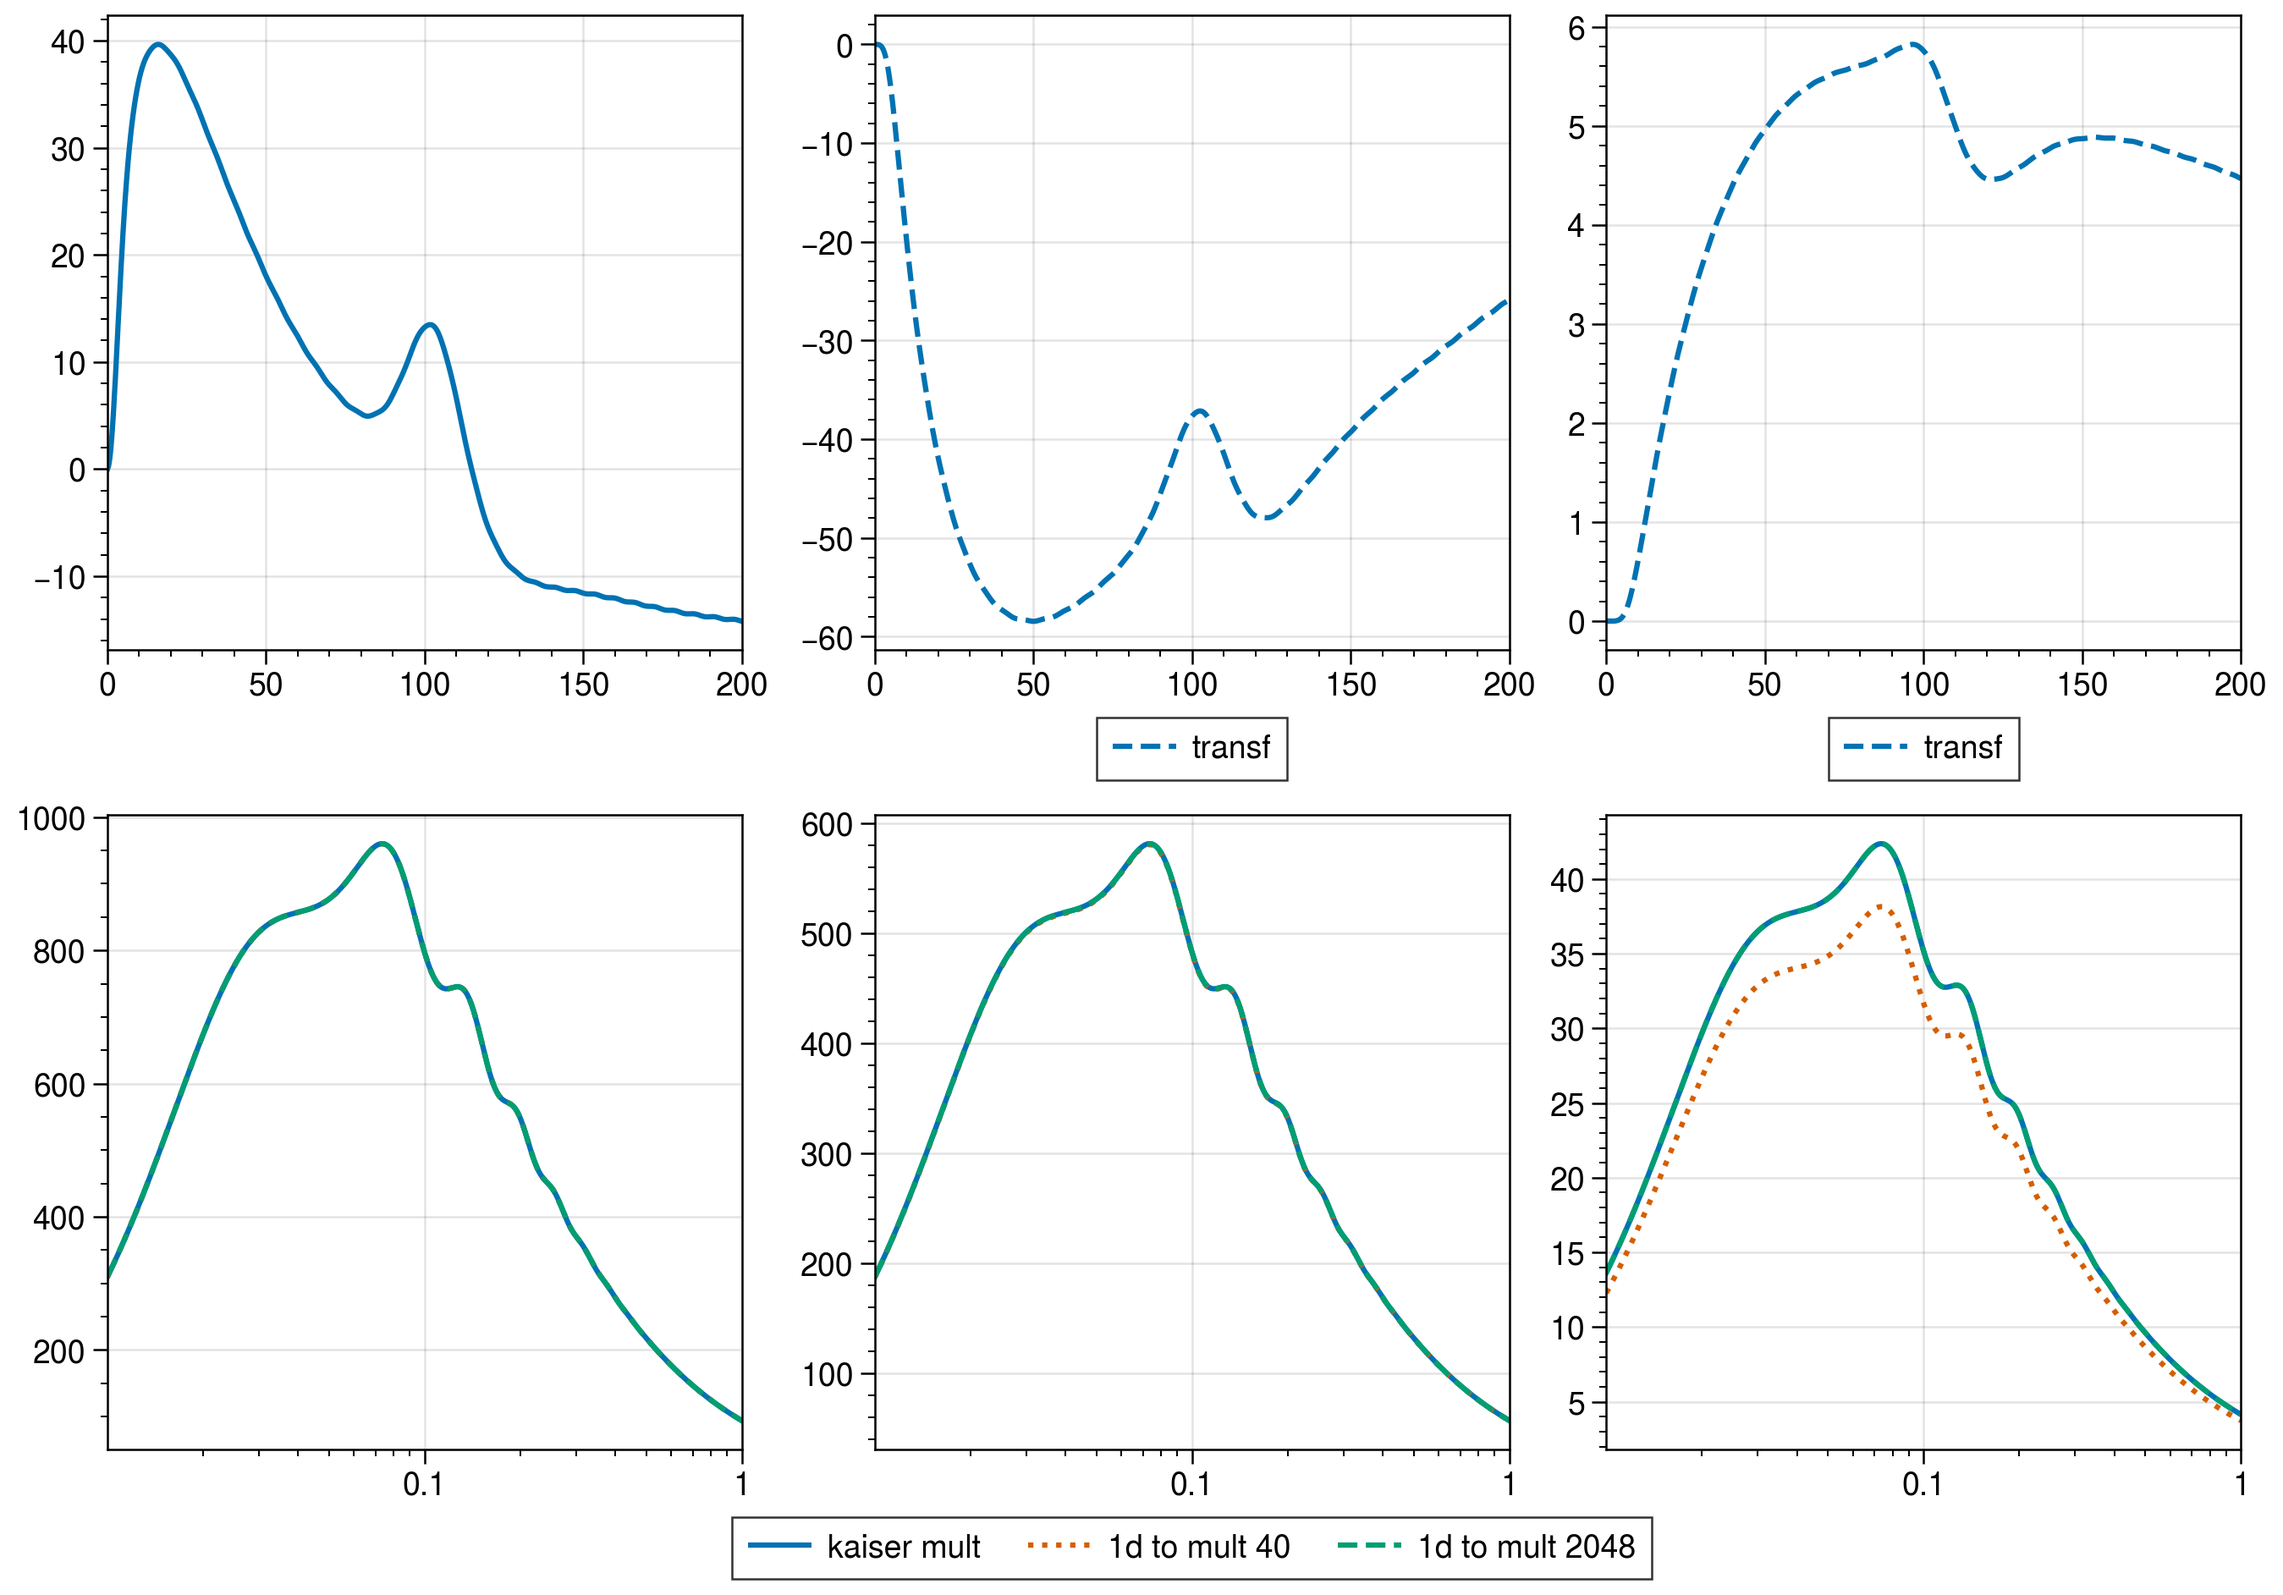
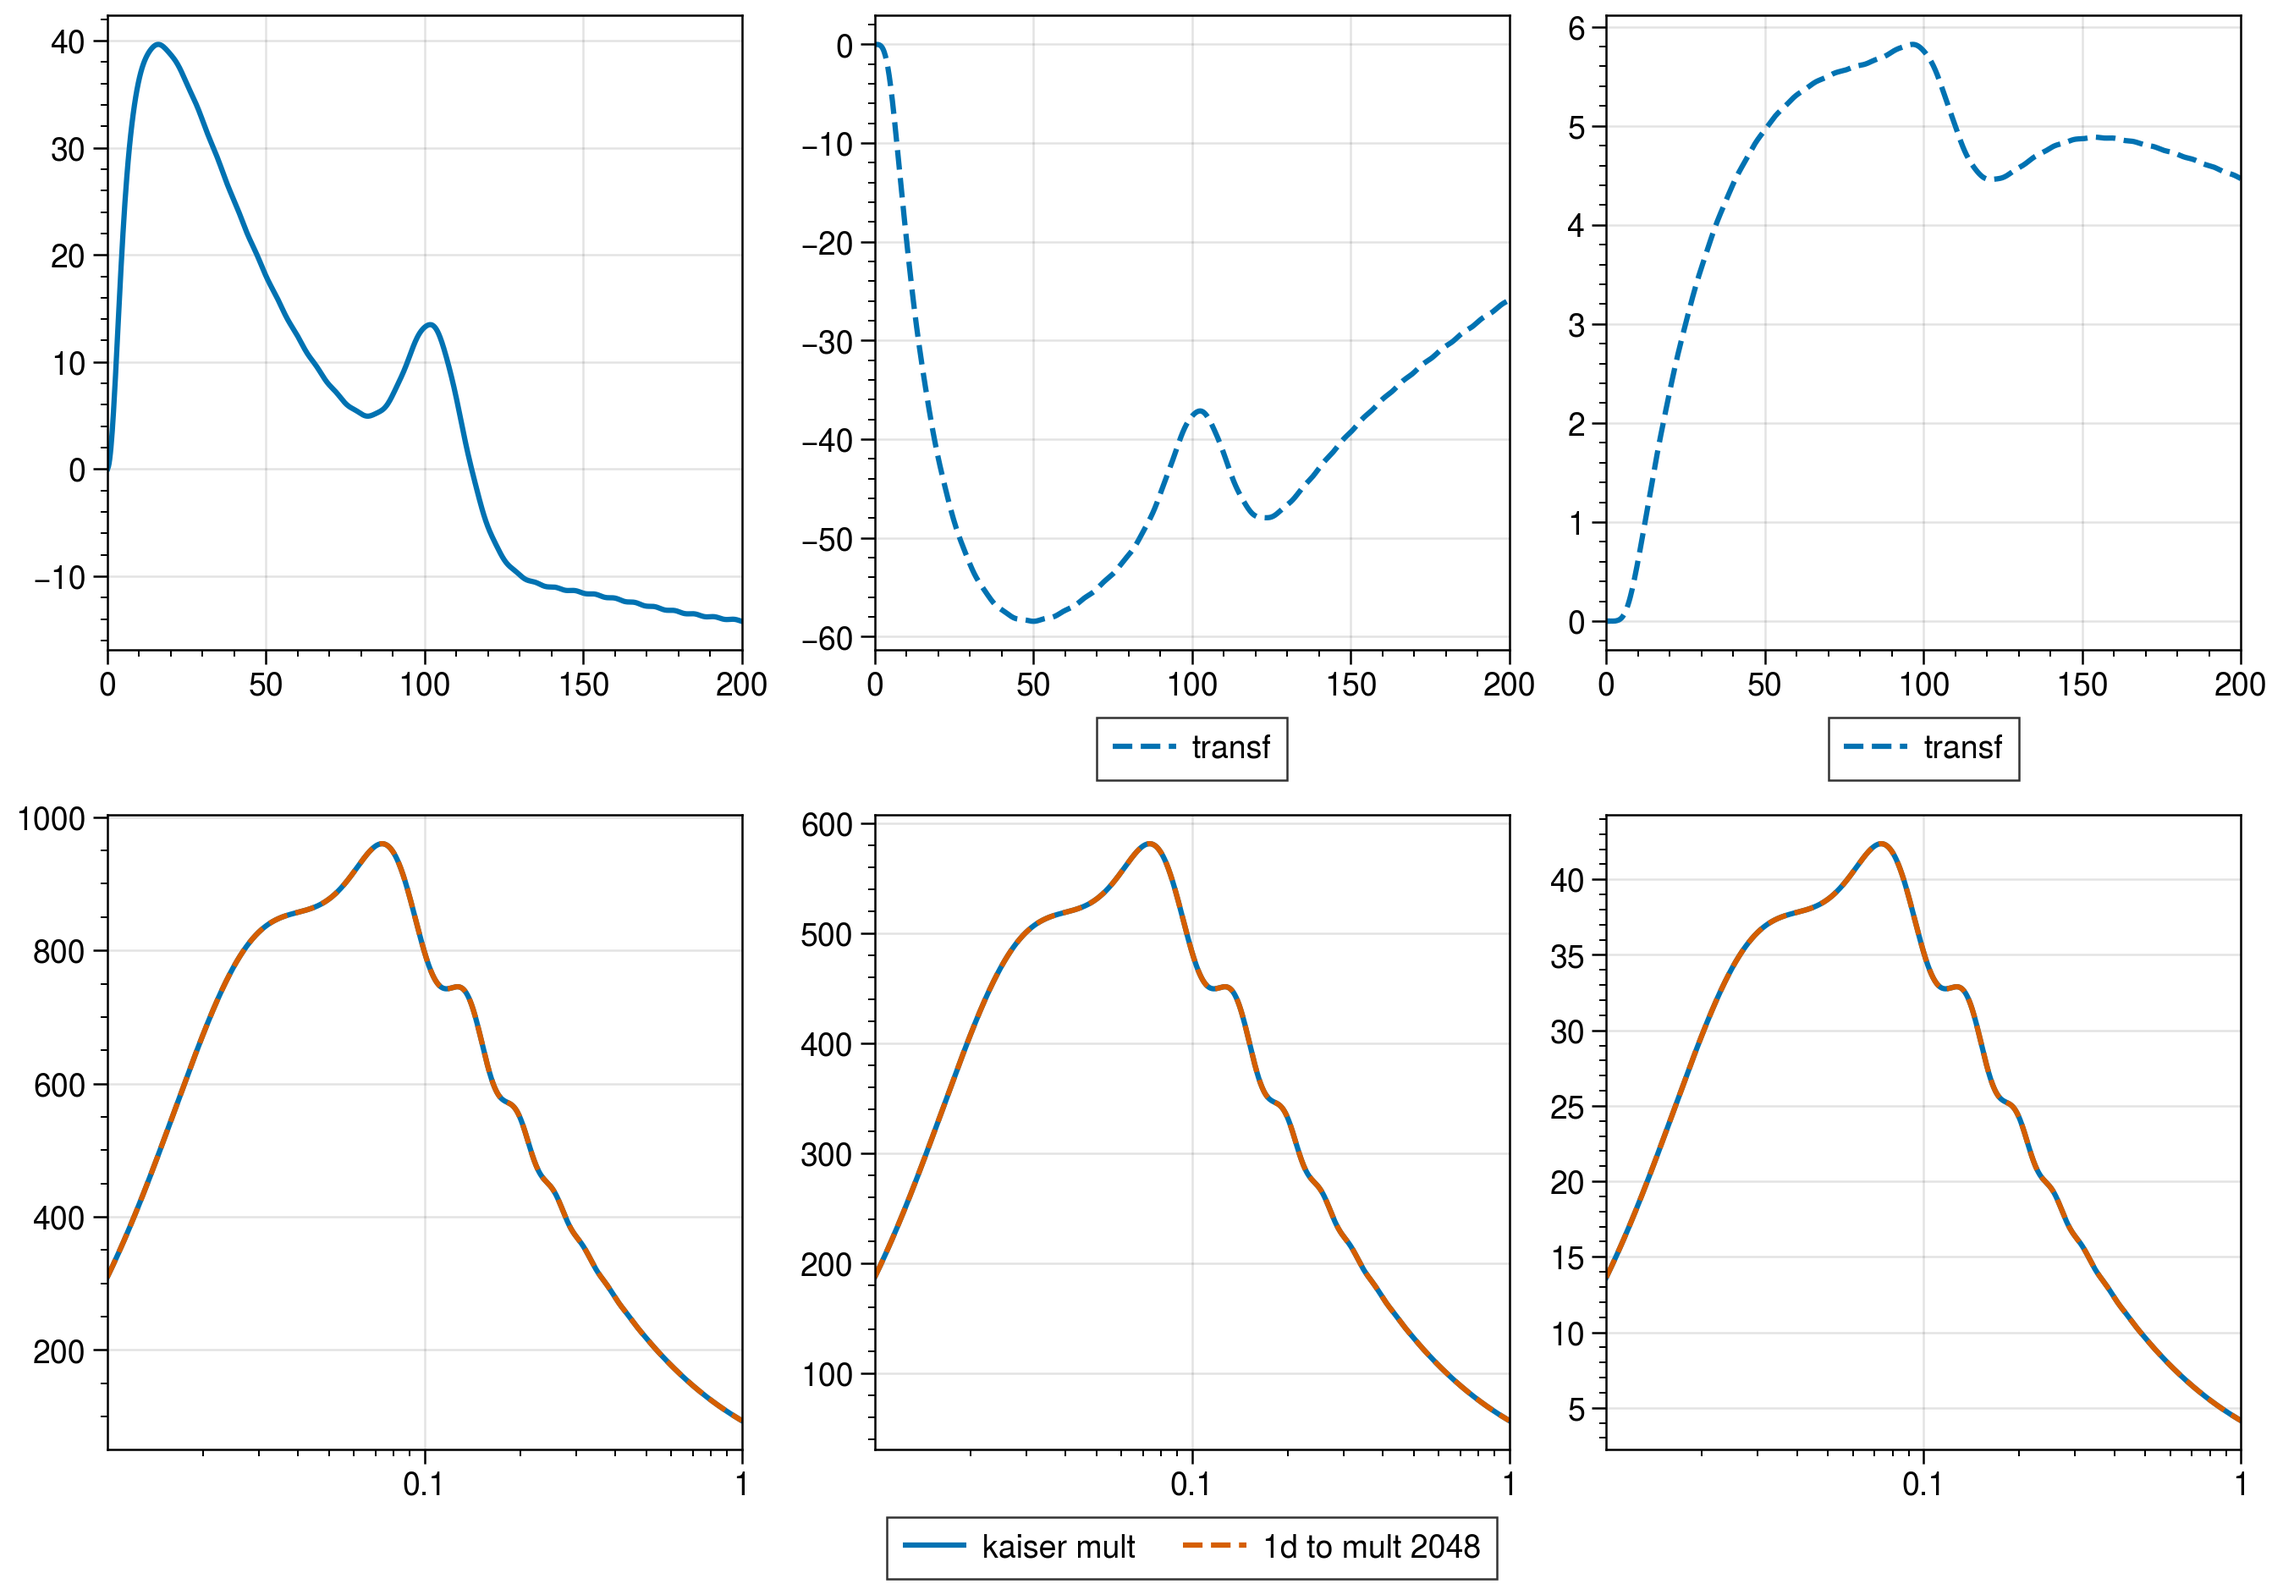
Including multipoles

diff --git a/tests/lognormal_nobao_mult.py b/tests/lognormal_nobao_mult.py
@@ -1,0 +1,211 @@
+from nbodykit.lab import *
+import numpy as np
+import time
+import jax
+import jax.numpy as jnp
+from jax.experimental import loops
+import sys
+sys.path.insert(0, "/home/daniel/OneDrive/Research/jax_cosmo") #Use my local jax_cosmo with correlations module
+import jax_cosmo as jc
+from jax_cosmo.correlations import xicalc_trapz
+import numpy as np
+import pandas as pd
+import proplot as pplt
+
+from src.mas import cic_mas, cic_mas_vec
+from src.correlations import powspec, powspec_vec, xi_vec, powspec_vec_fundamental, xi_vec_fundamental, kaiser_power_spectrum
+
+import MAS_library as MASL
+import Pk_library as PKL
+
+
+box_size = 1000.
+redshift = 0.55
+b1 = 2.0
+seed = 5
+create_data = False
+if create_data:
+    
+    cosmo = cosmology.Planck15
+    print(cosmo)
+    Plin = cosmology.LinearPower(cosmo, redshift, transfer='NoWiggleEisensteinHu')
+    
+    cat = LogNormalCatalog(Plin=Plin, nbar=3.5e-3, BoxSize=box_size, Nmesh=450, bias=b1, seed=seed)
+    particles = cat['Position'].compute()
+    np.save("data/lognormal_nobao.npy", particles)
+else:
+
+    particles = np.load("data/lognormal_nobao.npy")
+
+particles = jax.device_put(particles)
+cosmo = jc.Planck15()
+
+
+
+
+
+
+key = jax.random.PRNGKey(5)
+
+n_part = particles.shape[0]
+key, subkey = jax.random.split(key)
+w = jnp.ones(particles.shape[0])
+print(n_part)
+
+
+shot_noise = box_size**3 / n_part
+
+z = redshift
+n_bins = 256
+growth_rate = jc.background.growth_rate(cosmo, jnp.array([1. / (1. + z)])).squeeze()
+@jax.jit
+def loss(positions):
+    xpos = positions[:,0]
+    ypos = positions[:,1]
+    zpos = positions[:,2]
+    bias = b1#2.2
+    
+    
+    k_ny = jnp.pi * n_bins / box_size
+    k_edges = jnp.arange(0.003, k_ny, 0.0025)
+    delta = jnp.zeros((n_bins, n_bins, n_bins))
+    delta = cic_mas_vec(delta,
+                xpos, ypos, zpos, w, 
+                n_part, 
+                0., 0., 0.,
+                box_size,
+                n_bins,
+                True)
+    delta /= delta.mean()
+    delta -= 1.
+    k, pk, modes = powspec_vec(delta, box_size, k_edges) 
+    
+    plin =  jc.power.linear_matter_power(cosmo, k, a = 1. / (1 + z), transfer_fn=jc.transfer.Eisenstein_Hu) + shot_noise
+    pk0, pk2, pk4 = kaiser_power_spectrum(plin, bias, growth_rate)
+    #return jnp.nanmean((jnp.log10(pk[:,0]) - jnp.log10(pk0))**2) #+ jnp.nanmean(jnp.abs(pk[:,1])) * 1e-2# + jnp.nanmean(jnp.abs(pk[:,1])) * 1e-4
+    #loss_mono = jnp.nanmean(jnp.abs(pk[:,0] - pk0))
+    #loss_quad = jnp.nanmean(jnp.abs(pk[:,1] - pk2))
+    #loss_hexa = jnp.nanmean(jnp.abs(pk[:,2] - pk4))
+    loss_mono = jnp.nanmean((pk[:,0] - pk0)**2)
+    loss_quad = jnp.nanmean((pk[:,1] - pk2)**2) * 2
+    loss_hexa = jnp.nanmean((pk[:,2] - pk4)**2) * 5
+    return loss_mono + loss_quad + loss_hexa
+
+from jax.experimental import optimizers
+key, subkey = jax.random.split(key)
+#w0 = jax.random.normal(key, (particles.shape[0],))* 0.2 + 0.4
+
+x0 = particles
+learning_rate = 1.
+opt_init, opt_update, get_params = optimizers.adam(learning_rate)
+opt_state = opt_init(x0)
+@jax.jit
+def step(step, opt_state):
+    value, grads = jax.value_and_grad(loss)(get_params(opt_state))
+    opt_state = opt_update(step, grads, opt_state)
+    return opt_state
+num_steps = 400
+s = time.time()
+print("Training...", flush=True)
+opt_state = jax.lax.fori_loop(0, num_steps, step, opt_state)   
+print(f"Training took {time.time() - s} s", flush=True)
+new_pos = get_params(opt_state)
+#final_loss = loss(w).block_until_ready()
+#print(f"Final loss: {final_loss}", flush=True)
+print(particles)
+print(new_pos)
+
+
+k_ny = jnp.pi * n_bins / box_size
+delta = jnp.zeros((n_bins, n_bins, n_bins))
+delta = cic_mas_vec(delta,
+            new_pos[:,0], new_pos[:,1], new_pos[:,2], w, 
+            n_part, 
+            0., 0., 0.,
+            box_size,
+            n_bins,
+            True)
+delta /= delta.mean()
+delta -= 1.
+
+k, pk, modes = powspec_vec_fundamental(delta, box_size) 
+mask = k < k_ny
+k = k[mask]
+pk = pk[mask]
+s, xi, modes = xi_vec_fundamental(delta, box_size)
+mask = s < 200
+s = s[mask]
+xi = xi[mask]
+
+bias = b1
+plin =  jc.power.linear_matter_power(jc.Planck15(), k, a=1. / (1 + z), transfer_fn=jc.transfer.Eisenstein_Hu) + shot_noise
+pk0, pk2, pk4 = kaiser_power_spectrum(plin, bias, growth_rate)
+fig, ax = pplt.subplots(nrows=3, ncols=3, sharex=False, sharey=False)
+ax[-2].imshow(delta[:,:,:].mean(axis=2), colorbar='r')
+ax[-2].format(title='Corrected')
+ax[0].plot(k, k*pk[:, 0], label='Corrected mono')
+ax[1].plot(k, k*pk[:, 1], label='')
+ax[2].plot(k, k*pk[:, 2], label='')
+ax[0].plot(k, k*pk0, label='Linear', ls=':')
+ax[1].plot(k, k*pk2, ls=':')
+ax[2].plot(k, k*pk4, ls=':')
+ax[3].plot(s, s**2*xi[:,0], label='Corrected')
+ax[4].plot(s, s**2*xi[:,1], label='Corrected')
+ax[5].plot(s, s**2*xi[:,2], label='Corrected')
+
+
+
+delta = jnp.zeros((n_bins, n_bins, n_bins))
+delta = cic_mas_vec(delta,
+            particles[:,0], particles[:,1], particles[:,2], w, 
+            n_part, 
+            0., 0., 0.,
+            box_size,
+            n_bins,
+            True)
+delta /= delta.mean()
+delta -= 1.
+k, pk, modes = powspec_vec_fundamental(delta, box_size) 
+mask = k < k_ny
+k = k[mask]
+pk = pk[mask]
+s, xi, modes = xi_vec_fundamental(delta, box_size)
+mask = s < 200
+s = s[mask]
+xi = xi[mask]
+
+ax[0].plot(k, k*pk[:, 0], label='Log-normal', ls='--')
+ax[1].plot(k, k*pk[:, 1], label='Corrected quad')
+ax[2].plot(k, k*pk[:, 2], label='Corrected hexa')
+ax[3].plot(s, s**2*xi[:,0], label='Log-normal', ls = '--')
+ax[4].plot(s, s**2*xi[:,1], label='Log-normal')
+ax[5].plot(s, s**2*xi[:,2], label='Log-normal')
+klin = np.logspace(-3, 0, 2048)
+plin =  jc.power.linear_matter_power(jc.Planck15(), klin, a=1. / (1 + z), transfer_fn=jc.transfer.Eisenstein_Hu) + shot_noise
+pk0, pk2, pk4 = kaiser_power_spectrum(plin, bias, growth_rate)
+s, xi0, _, _ = xicalc_trapz(klin, pk0, 2., s)
+s, _, xi2, _ = xicalc_trapz(klin, pk2, 2., s)
+s, _, _, xi4 = xicalc_trapz(klin, pk4, 2., s)
+ax[3].plot(s, s**2*xi0, label='linear', ls=':')
+ax[4].plot(s, s**2*xi2, label='linear', ls=':')
+ax[5].plot(s, s**2*xi4, label='linear', ls=':')
+
+
+ax[0].format(xscale = 'log', yscale = 'linear', xlabel='$k$ [$h$/Mpc]', ylabel='$P(k)$')
+ax[-1].imshow(delta[:,:,:].mean(axis=2), colorbar='r')
+ax[-1].format(title='Log-normal')
+ax[0].legend(loc='bottom')
+ax[3].legend(loc='bottom')
+ax[3].format(xlabel='$s$', ylabel=r'$s^2\xi$')
+fig.savefig("plots/lognormal_nobao_multi.png", dpi=300)
+
+print("Saving corrected catalog...", flush=True)
+np.save("data/lognormal_nobao_multi_corrected.npy", (new_pos + box_size) % box_size)
+
+
+
+
+
+
+
+

diff --git a/src/correlations.py b/src/correlations.py
@@ -353,9 +353,9 @@ def xi_vec_coords(dims, box_size, k_edges):
     return r3D
 
 @jax.jit
-def kaiser_power_spectrum_integration(power_spectrum, nmu_bins, bias, growth_rate):
+def kaiser_power_spectrum_integration(power_spectrum, mu_edges, bias, growth_rate):
     
-    mu_edges = jnp.linspace(0,1,nmu_bins+1)
+    
     mu = 0.5 * (mu_edges[:-1] + mu_edges[1:])
     dmu = mu[1] - mu[0]
     kaiser_factor = (bias + growth_rate * mu**2)**2
@@ -377,11 +377,11 @@ def kaiser_power_spectrum(power_spectrum, bias, growth_rate):
     
     return mono, quad, hexa
 @jax.jit
-def kaiser_fog_power_spectrum_integrate(power_spectrum, k, nmu_bins, bias, growth_rate, sigma):
+def kaiser_fog_power_spectrum_integrate(power_spectrum, k, mu_edges, bias, growth_rate, sigma):
 
     """Check https://arxiv.org/pdf/1209.3771.pdf for expansion of the Pk and other FOG kernels"""
     
-    mu_edges = jnp.linspace(0,1,nmu_bins+1)
+    
     mu = 0.5 * (mu_edges[:-1] + mu_edges[1:])
     kaiser_factor = (bias + growth_rate * mu**2)**2
     mono = power_spectrum[:,None] * kaiser_factor[None, :] * jnp.exp(-k[:,None]**2 * mu[None,:]**2 * sigma**2)

diff --git a/tests/plin_multipoles.py b/tests/plin_multipoles.py
@@ -25,17 +25,15 @@ ax[0].plot(s, s**2*xi0, label='linear')
 #ax[1].plot(s, s**2*xi2, label='linear')
 #ax[2].plot(s, s**2*xi4, label='linear')
 
+
+
 pk0, pk2, pk4 = kaiser_power_spectrum(plin, bias, growth_rate)
 ax[3].plot(klin, klin*pk0, label='kaiser mult', ls='-')
 ax[4].plot(klin, klin*pk2, label='kaiser mult', ls='-')
 ax[5].plot(klin, klin*pk4, label='kaiser mult', ls='-')
 
-pk0, pk2, pk4 = kaiser_power_spectrum_integration(plin, 40, bias, growth_rate)
-ax[3].plot(klin, klin*pk0, label='1d to mult 40', ls=':')
-ax[4].plot(klin, klin*pk2, label='1d to mult 40', ls=':')
-ax[5].plot(klin, klin*pk4, label='1d to mult 40', ls=':')
-
-pk0, pk2, pk4 = kaiser_power_spectrum_integration(plin, 2048, bias, growth_rate)
+mu_edges = jnp.linspace(0,1,2048+1)
+pk0, pk2, pk4 = kaiser_power_spectrum_integration(plin, mu_edges, bias, growth_rate)
 ax[3].plot(klin, klin*pk0, label='1d to mult 2048', ls='--')
 ax[4].plot(klin, klin*pk2, label='1d to mult 2048', ls='--')
 ax[5].plot(klin, klin*pk4, label='1d to mult 2048', ls='--')
